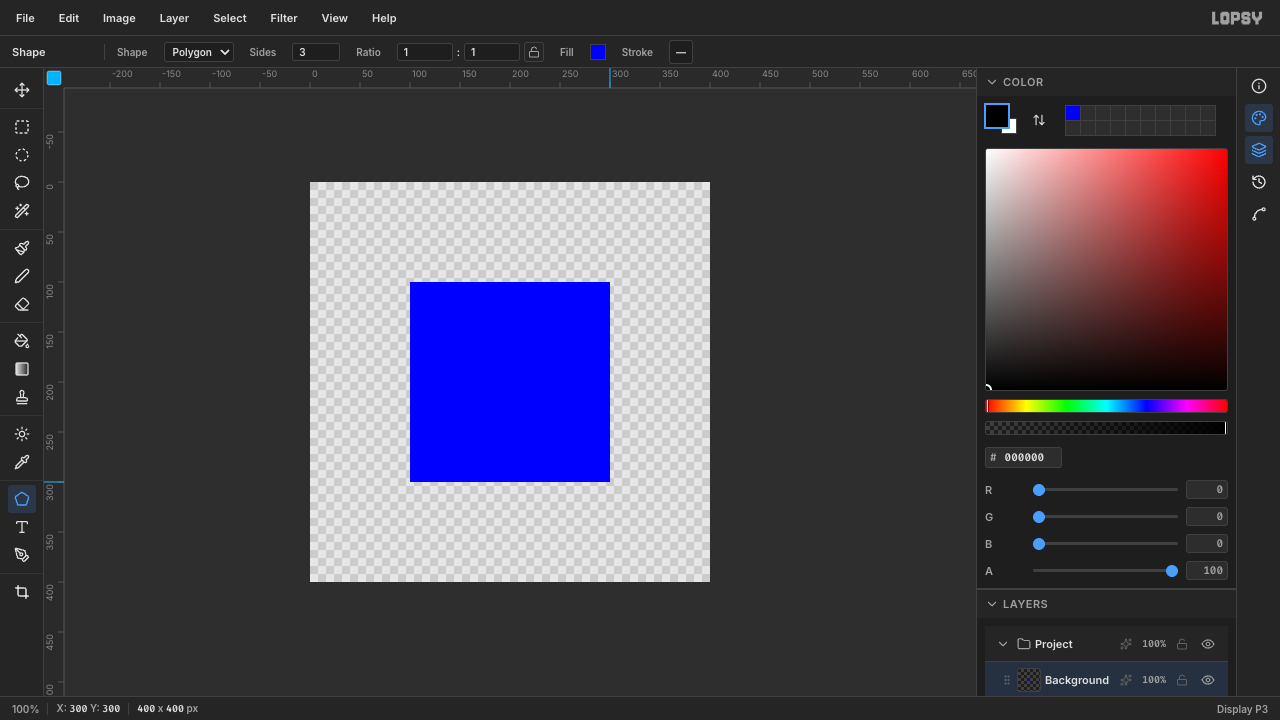
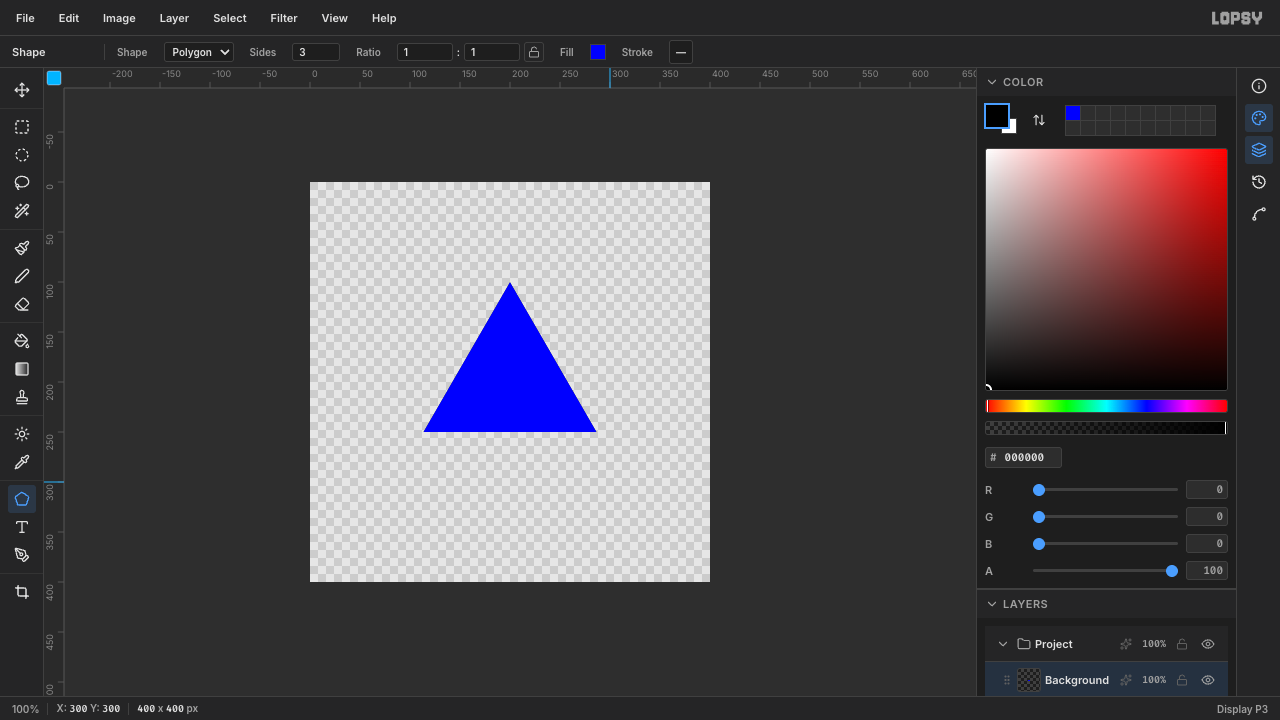
feat(shape): add polygon SDF to GPU shader for true N-sided rendering
The GPU shape shader previously only had ellipse and rectangle SDFs,
so all polygon shapes rendered as rectangles regardless of side count.

Added a proper polygon signed distance field that:
- Renders actual N-sided polygons (triangles, pentagons, hexagons, etc.)
- Rotates even-sided polygons for flat top edges (squares, not diamonds)
- Keeps odd-sided polygons pointing up (triangle vertex at top)
- Supports corner radius rounding
- Wires the sides parameter through lib.rs → shape_gpu.rs → shader

Changed region(s): [[0.3125, 0.3667, 0.5, 0.6722]]

diff --git a/engine-rs/crates/lopsy-wasm/src/lib.rs b/engine-rs/crates/lopsy-wasm/src/lib.rs
@@ -933,13 +933,13 @@ pub fn render_shape(
     shape_type: u32, cx: f64, cy: f64, width: f64, height: f64,
     fill_r: f32, fill_g: f32, fill_b: f32, fill_a: f32,
     stroke_r: f32, stroke_g: f32, stroke_b: f32, stroke_a: f32,
-    stroke_width: f32, _sides: u32, corner_radius: f32,
+    stroke_width: f32, sides: u32, corner_radius: f32,
 ) {
     shape_gpu::render_shape(
         &mut engine.inner, layer_id, shape_type, cx, cy, width, height,
         fill_r, fill_g, fill_b, fill_a,
         stroke_r, stroke_g, stroke_b, stroke_a,
-        stroke_width, corner_radius,
+        stroke_width, sides, corner_radius,
     );
 }
 

diff --git a/engine-rs/crates/lopsy-wasm/src/shape_gpu.rs b/engine-rs/crates/lopsy-wasm/src/shape_gpu.rs
@@ -18,6 +18,7 @@ pub fn render_shape(
     stroke_b: f32,
     stroke_a: f32,
     stroke_width: f32,
+    sides: u32,
     corner_radius: f32,
 ) {
     let _ = engine.ensure_layer_full_size(layer_id);
@@ -75,6 +76,9 @@ pub fn render_shape(
     }
     if let Some(loc) = gl.get_uniform_location(prog, "u_cornerRadius") {
         gl.uniform1f(Some(&loc), corner_radius);
+    }
+    if let Some(loc) = gl.get_uniform_location(prog, "u_sides") {
+        gl.uniform1i(Some(&loc), sides as i32);
     }
     if let Some(loc) = gl.get_uniform_location(prog, "u_texSize") {
         gl.uniform2f(Some(&loc), w as f32, h as f32);
